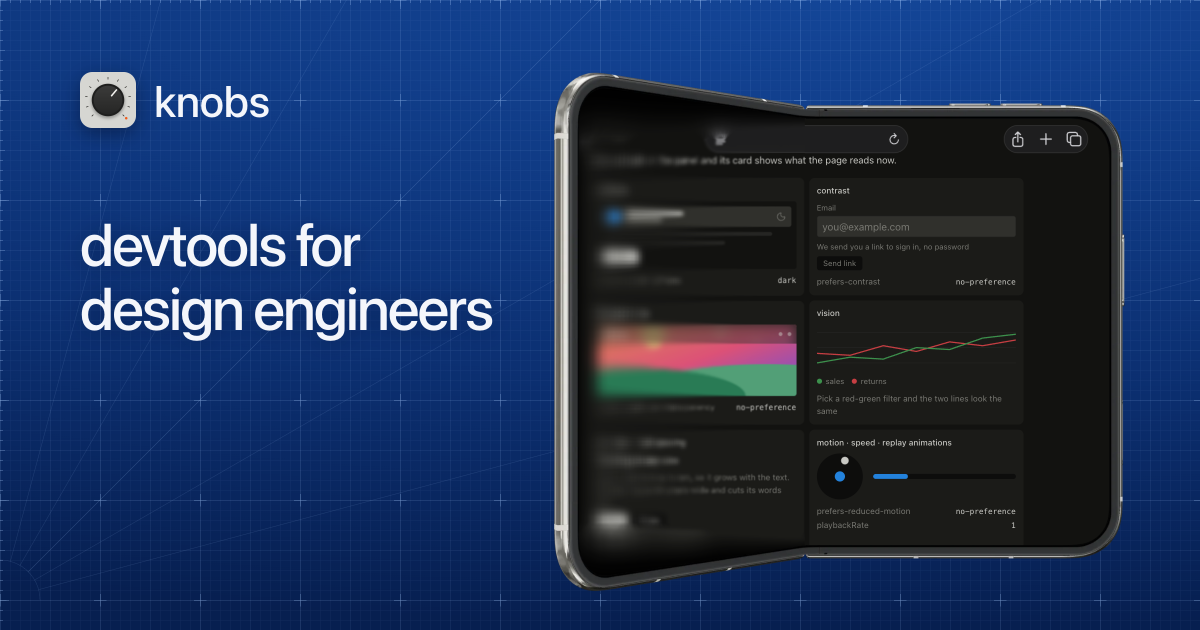
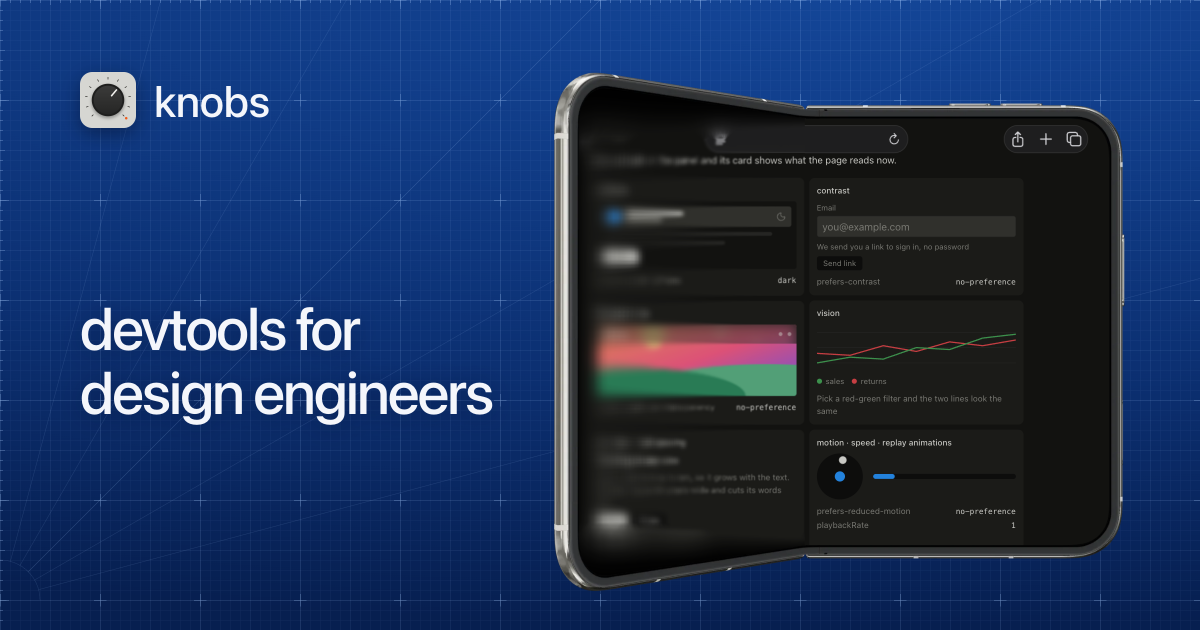
feat(web): headline lower on the share image

Changed region(s): [[0.0617, 0.4524, 0.4317, 0.573], [0.0617, 0.6032, 0.4317, 0.6937], [0.0617, 0.3619, 0.3083, 0.4222]]

diff --git a/apps/web/scripts/og.ts b/apps/web/scripts/og.ts
@@ -111,14 +111,14 @@ const QUIET = `
 `;
 
 // The words, over the mat on the left, in the site's system stack, all in the
-// top half: X lays the site's name over the bottom left corner. A popover,
+// upper two thirds: X lays the site's name over the bottom left corner. A popover,
 // so it sits in the top layer with devknobs' own layers.
 const OVERLAY = `
 <style>
   .og {
     position: fixed; inset: 0 auto 0 0; margin: 0; border: 0; background: none; overflow: visible;
     box-sizing: border-box; width: 560px; height: 100%; padding: 72px 0 0 80px;
-    display: flex; flex-direction: column; gap: 84px;
+    display: flex; flex-direction: column; gap: 168px;
     pointer-events: none; color: #f4f6fb;
     font-family: system-ui, -apple-system, 'Segoe UI', Roboto, Helvetica, Arial, sans-serif;
     -webkit-font-smoothing: antialiased;
